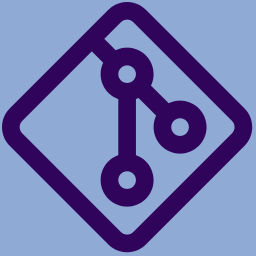
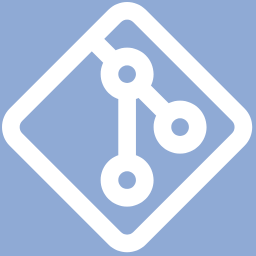
Css do header

diff --git a/styles.css b/styles.css
@@ -1,0 +1,65 @@
+* {
+    margin: 0;
+    padding: 0;
+    box-sizing: border-box;
+}
+
+body {
+    font-family: Arial, sans-serif;
+}
+
+header {
+    display: flex;
+    justify-content: space-between;
+    align-items: center;
+    padding: 15px 30px;
+    background-color: #8faad5;
+    color: #fff;
+    height: 70px;
+}
+/*
+img {
+    max-width: 100%; 
+    height: auto; 
+}
+*/
+
+.logo img {
+    width: 40px;
+    margin-right: 20px;
+}
+
+.links {
+    display: flex;
+    gap: 20px;
+}
+
+.links a {
+    color: #fff;
+    text-decoration: none;
+    font-size: 18px;
+}
+
+.pesquisa {
+    display: flex;
+    align-items: center;
+    margin-left: auto;
+    overflow: hidden;
+    border-radius: 5px;
+}
+
+.pesquisa input {
+    padding: 10px 15px; 
+    font-size: 16px; 
+    border: 1px solid #8faad5; 
+    border-radius: 5px 0 0 5px; 
+    outline: none; 
+}
+
+button{
+    padding: 10px 15px; 
+    background-color: #af8ed5; 
+    border: none; 
+    border-radius: 0 5px 5px 0; 
+    cursor: pointer;
+}

diff --git a/index.html b/index.html
@@ -3,12 +3,14 @@
 <head>
     <meta charset="UTF-8">
     <meta name="viewport" content="width=device-width, initial-scale=1.0">
-    <link href="style.css" rel="stylesheet" type="text/css" />
+    <link href="styles.css" rel="stylesheet" type="text/css" />
     <title>Atividade Branchs</title>
 </head>
 <body>
     <header>
-        <img src="icone.png" alt="Descrição da imagem">
+        <div class="logo">
+            <img src="icone.png">
+        </div>
 
         <nav class="links">
             <a href="index.html">Home</a>
@@ -17,7 +19,7 @@
 
         <form class="pesquisa" action="/search" method="GET">
             <input type="search" name="query" placeholder="Buscar...">
-            <button type="submit">Buscar</button>
+            <button type="submit">🔎</button>
         </form>
     </header>
 
